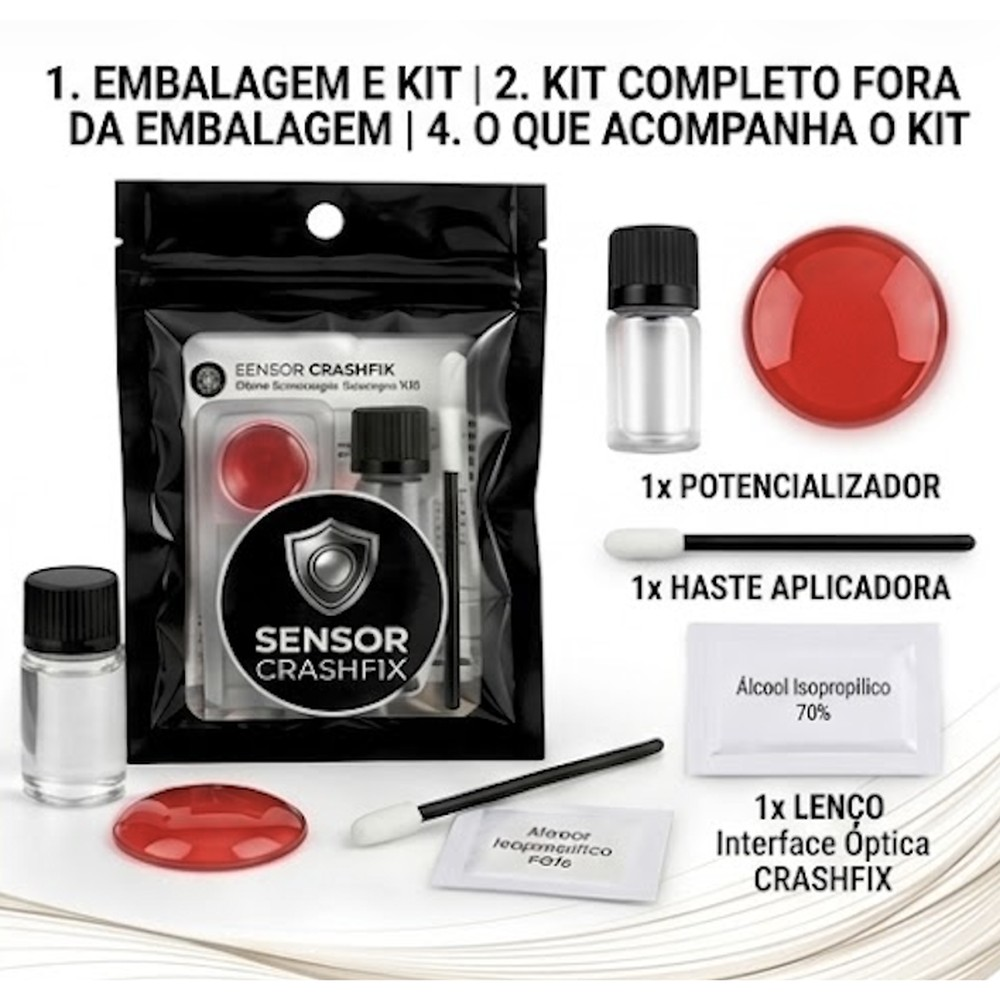
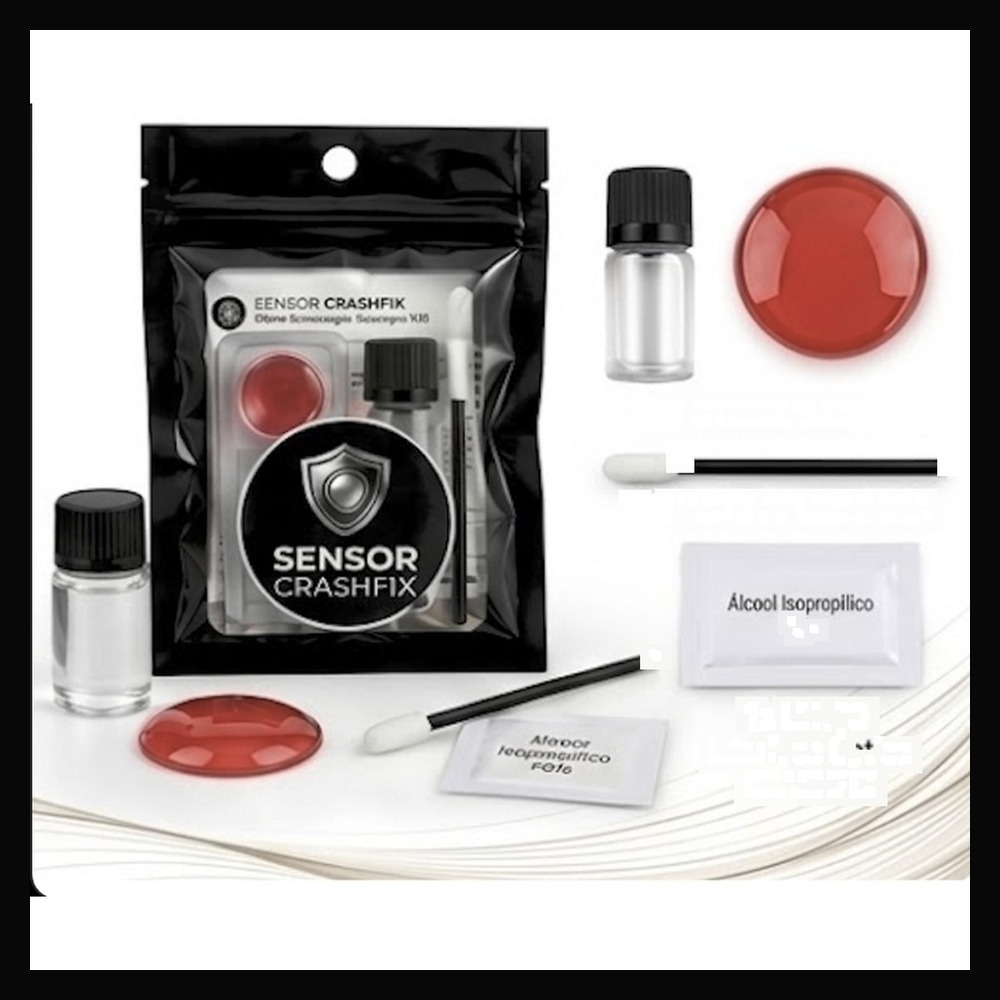
Remove os dizeres da foto do kit (rótulos 1x e cabeçalho).
Atualiza galeria home/loja sem legendas laterais.

diff --git a/index.html b/index.html
@@ -220,7 +220,7 @@
             <div class="kit-box">
                 <div class="kit-box-layout">
                     <div class="kit-box-media">
-                        <img src="images/home/kit-profissional-black.jpg?v=crash10" alt="Kit Sensor Crash Fix — embalagem, lente maior, aplicador e lenço" loading="lazy" width="800" height="800">
+                        <img src="images/home/kit-profissional-black.jpg?v=crash11" alt="Kit Sensor Crash Fix — embalagem, lente maior, aplicador e lenço" loading="lazy" width="800" height="800">
                     </div>
                     <div class="kit-box-content">
                         <h3>O que vem no Kit:</h3>
@@ -386,7 +386,7 @@
     <script src="js/stf-money.js?v=3"></script>
     <script src="js/store-price-tag.js?v=14"></script>
     <script src="js/seo-schema.js?v=10"></script>
-    <script src="js/stf-product-gallery.js?v=19"></script>
+    <script src="js/stf-product-gallery.js?v=20"></script>
     <script src="js/site-footer.js?v=16"></script>
     <script src="js/site-feedback.js?v=8"></script>
     <script src="js/account-nav.js"></script>

diff --git a/en/index.html b/en/index.html
@@ -229,7 +229,7 @@
                 <!-- Kit packaging hidden on .com / EN — lens-only market -->
                 <div class="kit-box-layout">
                     <div class="kit-box-media">
-                        <img src="../images/home/kit-profissional-black.jpg?v=crash10" alt="" loading="lazy" width="800" height="800">
+                        <img src="../images/home/kit-profissional-black.jpg?v=crash11" alt="" loading="lazy" width="800" height="800">
                     </div>
                     <div class="kit-box-content">
                         <h3>What's in the Kit:</h3>
@@ -358,7 +358,7 @@
     <script src="../js/stf-money.js?v=6"></script>
     <script src="../js/store-price-tag.js?v=15"></script>
     <script src="../js/seo-schema.js?v=10"></script>
-    <script src="../js/stf-product-gallery.js?v=19"></script>
+    <script src="../js/stf-product-gallery.js?v=20"></script>
     <script src="../js/site-footer.js?v=16"></script>
     <script src="../js/site-feedback.js?v=8"></script>
     <script src="../js/account-nav.js"></script>

diff --git a/pl/index.html b/pl/index.html
@@ -202,7 +202,7 @@
                 <!-- Kit ukryty na .com / PL — tylko soczewka -->
                 <div class="kit-box-layout">
                     <div class="kit-box-media">
-                        <img src="../images/home/kit-profissional-black.jpg?v=crash10" alt="" loading="lazy" width="800" height="800">
+                        <img src="../images/home/kit-profissional-black.jpg?v=crash11" alt="" loading="lazy" width="800" height="800">
                     </div>
                     <div class="kit-box-content">
                         <h3>Co znajduje się w zestawie:</h3>
@@ -303,7 +303,7 @@
     <script src="../js/stf-money.js?v=6"></script>
     <script src="../js/store-price-tag.js?v=15"></script>
     <script src="../js/seo-schema.js?v=10"></script>
-    <script src="../js/stf-product-gallery.js?v=19"></script>
+    <script src="../js/stf-product-gallery.js?v=20"></script>
     <script src="../js/site-footer.js?v=16"></script>
     <script src="../js/site-feedback.js?v=8"></script>
     <script src="../js/account-nav.js"></script>

diff --git a/de/index.html b/de/index.html
@@ -202,7 +202,7 @@
                 <!-- Kit auf .com / DE ausgeblendet — nur Linse -->
                 <div class="kit-box-layout">
                     <div class="kit-box-media">
-                        <img src="../images/home/kit-profissional-black.jpg?v=crash10" alt="" loading="lazy" width="800" height="800">
+                        <img src="../images/home/kit-profissional-black.jpg?v=crash11" alt="" loading="lazy" width="800" height="800">
                     </div>
                     <div class="kit-box-content">
                         <h3>Im Kit enthalten:</h3>
@@ -303,7 +303,7 @@
     <script src="../js/stf-money.js?v=6"></script>
     <script src="../js/store-price-tag.js?v=15"></script>
     <script src="../js/seo-schema.js?v=10"></script>
-    <script src="../js/stf-product-gallery.js?v=19"></script>
+    <script src="../js/stf-product-gallery.js?v=20"></script>
     <script src="../js/site-footer.js?v=16"></script>
     <script src="../js/site-feedback.js?v=8"></script>
     <script src="../js/account-nav.js"></script>

diff --git a/it/index.html b/it/index.html
@@ -196,7 +196,7 @@
                 <!-- Kit nascosto su .com / IT — solo lente -->
                 <div class="kit-box-layout">
                     <div class="kit-box-media">
-                        <img src="../images/home/kit-profissional-black.jpg?v=crash10" alt="" loading="lazy" width="800" height="800">
+                        <img src="../images/home/kit-profissional-black.jpg?v=crash11" alt="" loading="lazy" width="800" height="800">
                     </div>
                     <div class="kit-box-content">
                         <h3>Cosa trovi nel kit:</h3>
@@ -299,7 +299,7 @@
     <script src="../js/stf-money.js?v=6"></script>
     <script src="../js/store-price-tag.js?v=15"></script>
     <script src="../js/seo-schema.js?v=10"></script>
-    <script src="../js/stf-product-gallery.js?v=19"></script>
+    <script src="../js/stf-product-gallery.js?v=20"></script>
     <script src="../js/site-footer.js?v=16"></script>
     <script src="../js/site-feedback.js?v=8"></script>
     <script src="../js/account-nav.js"></script>

diff --git a/es/index.html b/es/index.html
@@ -202,7 +202,7 @@
                 <!-- Kit oculto en .com / ES — solo lente -->
                 <div class="kit-box-layout">
                     <div class="kit-box-media">
-                        <img src="../images/home/kit-profissional-black.jpg?v=crash10" alt="" loading="lazy" width="800" height="800">
+                        <img src="../images/home/kit-profissional-black.jpg?v=crash11" alt="" loading="lazy" width="800" height="800">
                     </div>
                     <div class="kit-box-content">
                         <h3>Contenido del kit:</h3>
@@ -303,7 +303,7 @@
     <script src="../js/stf-money.js?v=6"></script>
     <script src="../js/store-price-tag.js?v=15"></script>
     <script src="../js/seo-schema.js?v=10"></script>
-    <script src="../js/stf-product-gallery.js?v=19"></script>
+    <script src="../js/stf-product-gallery.js?v=20"></script>
     <script src="../js/site-footer.js?v=16"></script>
     <script src="../js/site-feedback.js?v=8"></script>
     <script src="../js/account-nav.js"></script>

diff --git a/sl/index.html b/sl/index.html
@@ -189,7 +189,7 @@
                 <!-- Komplet na .com / SL skrit — samo leča -->
                 <div class="kit-box-layout">
                     <div class="kit-box-media">
-                        <img src="../images/home/kit-profissional-black.jpg?v=crash10" alt="" loading="lazy" width="800" height="800">
+                        <img src="../images/home/kit-profissional-black.jpg?v=crash11" alt="" loading="lazy" width="800" height="800">
                     </div>
                     <div class="kit-box-content">
                         <h3>V kompletu:</h3>
@@ -290,7 +290,7 @@
     <script src="../js/stf-money.js?v=6"></script>
     <script src="../js/store-price-tag.js?v=15"></script>
     <script src="../js/seo-schema.js?v=10"></script>
-    <script src="../js/stf-product-gallery.js?v=19"></script>
+    <script src="../js/stf-product-gallery.js?v=20"></script>
     <script src="../js/site-footer.js?v=16"></script>
     <script src="../js/site-feedback.js?v=8"></script>
     <script src="../js/account-nav.js"></script>

diff --git a/de/loja.html b/de/loja.html
@@ -74,7 +74,7 @@
     <script src="../js/pelicula-compat.js?v=20"></script>
     <script src="../js/site-footer.js?v=16"></script>
     <script src="../js/site-feedback.js?v=8"></script>
-    <script src="../js/stf-product-gallery.js?v=19"></script>
+    <script src="../js/stf-product-gallery.js?v=20"></script>
     <script src="../js/loja.js?v=20"></script>
     <script src="../js/seo-schema.js?v=10"></script>
     <script src="../js/stf-intl-channels.js?v=2"></script>

diff --git a/en/loja.html b/en/loja.html
@@ -74,7 +74,7 @@
     <script src="../js/pelicula-compat.js?v=20"></script>
     <script src="../js/site-footer.js?v=12"></script>
     <script src="../js/site-feedback.js?v=8"></script>
-    <script src="../js/stf-product-gallery.js?v=19"></script>
+    <script src="../js/stf-product-gallery.js?v=20"></script>
     <script src="../js/loja.js?v=19"></script>
     <script src="../js/seo-schema.js?v=10"></script>
     <script src="../js/stf-intl-channels.js?v=2"></script>

diff --git a/es/loja.html b/es/loja.html
@@ -74,7 +74,7 @@
     <script src="../js/pelicula-compat.js?v=20"></script>
     <script src="../js/site-footer.js?v=16"></script>
     <script src="../js/site-feedback.js?v=8"></script>
-    <script src="../js/stf-product-gallery.js?v=19"></script>
+    <script src="../js/stf-product-gallery.js?v=20"></script>
     <script src="../js/loja.js?v=20"></script>
     <script src="../js/seo-schema.js?v=10"></script>
     <script src="../js/stf-intl-channels.js?v=2"></script>

diff --git a/it/loja.html b/it/loja.html
@@ -74,7 +74,7 @@
     <script src="../js/pelicula-compat.js?v=20"></script>
     <script src="../js/site-footer.js?v=12"></script>
     <script src="../js/site-feedback.js?v=8"></script>
-    <script src="../js/stf-product-gallery.js?v=19"></script>
+    <script src="../js/stf-product-gallery.js?v=20"></script>
     <script src="../js/loja.js?v=19"></script>
     <script src="../js/seo-schema.js?v=10"></script>
     <script src="../js/stf-intl-channels.js?v=2"></script>

diff --git a/pl/loja.html b/pl/loja.html
@@ -75,7 +75,7 @@
     <script src="../js/pelicula-compat.js?v=20"></script>
     <script src="../js/site-footer.js?v=16"></script>
     <script src="../js/site-feedback.js?v=8"></script>
-    <script src="../js/stf-product-gallery.js?v=19"></script>
+    <script src="../js/stf-product-gallery.js?v=20"></script>
     <script src="../js/loja.js?v=20"></script>
     <script src="../js/seo-schema.js?v=10"></script>
     <script src="../js/stf-intl-channels.js?v=2"></script>
